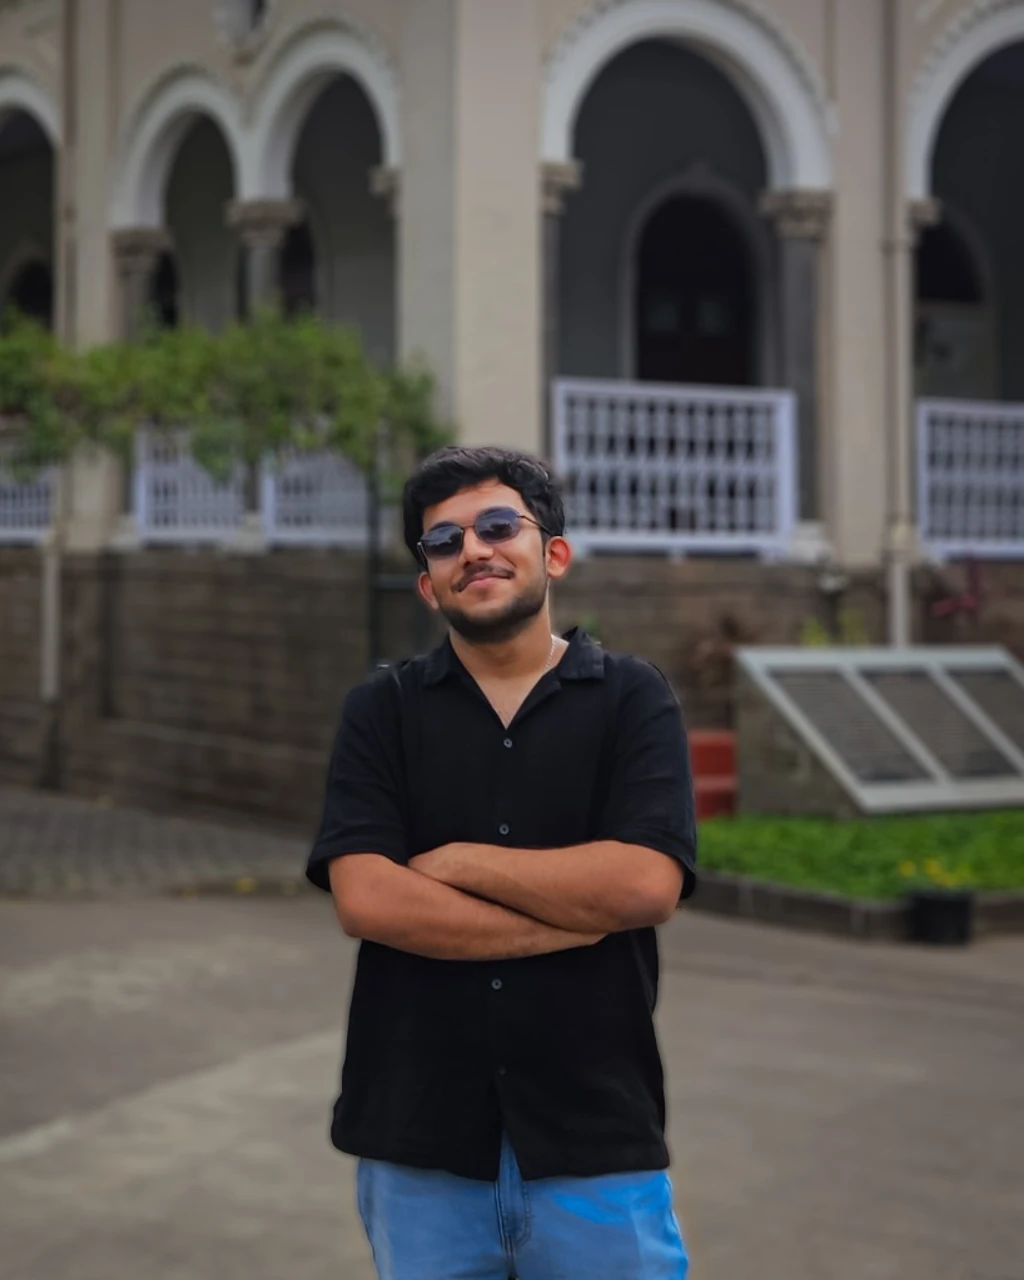
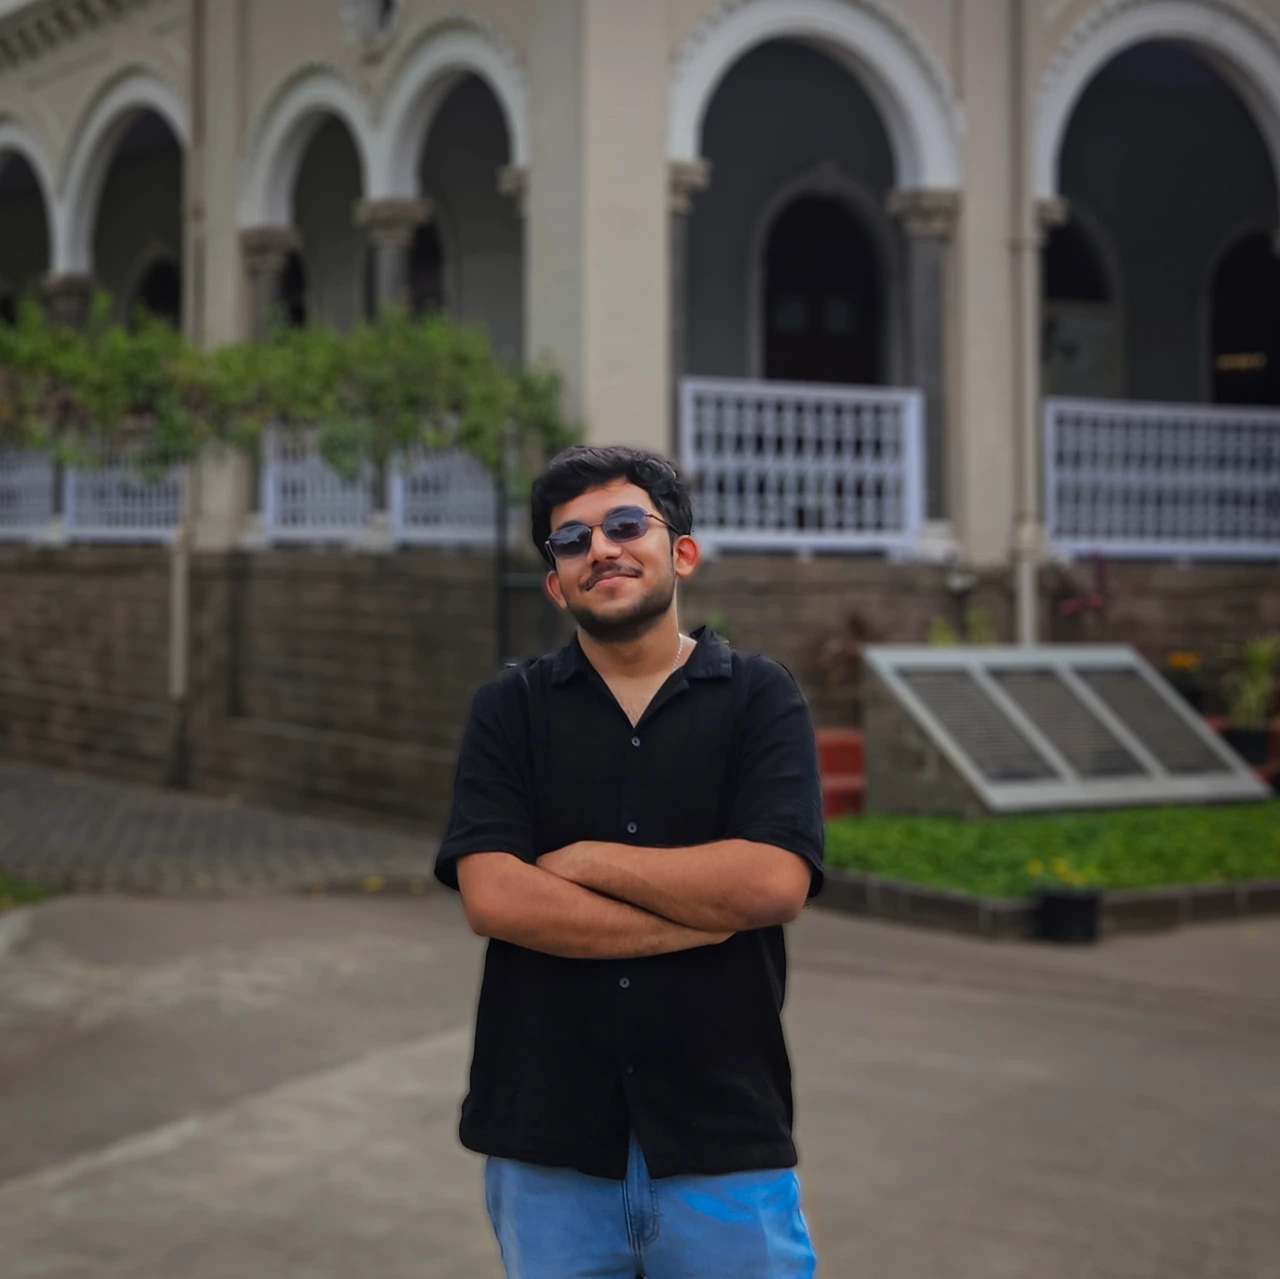
fix(about): remove scroll animation and restore full ProfilePhoto with natural background in About frame

diff --git a/script.js b/script.js
@@ -202,133 +202,6 @@
     });
   }
 
-  /* ==========================================================================
-     6. HERO FLYING PORTRAIT CUTOUT & DOCKING ANIMATION (STEP 4)
-     ========================================================================== */
-  const heroCutoutWrapper = document.getElementById('heroCutoutWrapper');
-  const heroPortrait = document.getElementById('travelingPortrait');
-  const aboutDockImg = document.getElementById('aboutPortraitDockImg');
-  const aboutPortraitCard = document.querySelector('.about-portrait-card');
-
-  if (heroPortrait && aboutDockImg && !prefersReduced.matches) {
-    // Create floating traveling flyer element
-    let flyer = document.getElementById('heroFlyingFlyer');
-    if (!flyer) {
-      flyer = document.createElement('div');
-      flyer.id = 'heroFlyingFlyer';
-      flyer.className = 'hero-flying-flyer';
-      flyer.setAttribute('aria-hidden', 'true');
-      flyer.innerHTML = '<img src="assets/cutout/portrait_cutout_1000.webp" class="flyer-img" alt="">';
-      document.body.appendChild(flyer);
-    }
-
-    let heroDocRect = null;
-    let dockDocRect = null;
-    let isTicking = false;
-
-    function measureRects() {
-      const prevHeroVis = heroPortrait.style.visibility;
-      const prevDockVis = aboutDockImg.style.visibility;
-      heroPortrait.style.visibility = 'visible';
-      aboutDockImg.style.visibility = 'visible';
-
-      const scrollY = window.pageYOffset || document.documentElement.scrollTop;
-      const hr = heroPortrait.getBoundingClientRect();
-      const dr = aboutDockImg.getBoundingClientRect();
-
-      heroDocRect = {
-        top: hr.top + scrollY,
-        left: hr.left,
-        width: hr.width,
-        height: hr.height
-      };
-
-      dockDocRect = {
-        top: dr.top + scrollY,
-        left: dr.left,
-        width: dr.width,
-        height: dr.height
-      };
-
-      heroPortrait.style.visibility = prevHeroVis;
-      aboutDockImg.style.visibility = prevDockVis;
-    }
-
-    function updateFlyer() {
-      isTicking = false;
-      const scrollY = window.pageYOffset || document.documentElement.scrollTop;
-
-      if (!heroDocRect || !dockDocRect || heroDocRect.width === 0) {
-        measureRects();
-        if (!heroDocRect || !dockDocRect || heroDocRect.width === 0) return;
-      }
-
-      // Transition completes when the dock aligns into the middle of the viewport
-      const targetScroll = Math.max(250, dockDocRect.top - (window.innerHeight - dockDocRect.height) * 0.45);
-      const rawProgress = scrollY / targetScroll;
-      const progress = Math.min(1, Math.max(0, rawProgress));
-
-      if (progress <= 0.005) {
-        // At exact top of hero
-        flyer.style.display = 'none';
-        heroPortrait.style.visibility = 'visible';
-        aboutDockImg.style.visibility = 'hidden';
-      } else if (progress >= 0.995) {
-        // Fully docked in About section
-        flyer.style.display = 'none';
-        heroPortrait.style.visibility = 'hidden';
-        aboutDockImg.style.visibility = 'visible';
-      } else {
-        // In flight: smooth traveling interpolation
-        flyer.style.display = 'block';
-        heroPortrait.style.visibility = 'hidden';
-        aboutDockImg.style.visibility = 'hidden';
-
-        // Smooth cubic easing curve
-        const t = progress < 0.5
-          ? 4 * progress * progress * progress
-          : 1 - Math.pow(-2 * progress + 2, 3) / 2;
-
-        const curHeroTopViewport = heroDocRect.top - scrollY;
-        const curDockTopViewport = dockDocRect.top - scrollY;
-
-        const curX = heroDocRect.left + (dockDocRect.left - heroDocRect.left) * t;
-        const curY = curHeroTopViewport + (curDockTopViewport - curHeroTopViewport) * t;
-        const curW = heroDocRect.width + (dockDocRect.width - heroDocRect.width) * t;
-        const curH = heroDocRect.height + (dockDocRect.height - heroDocRect.height) * t;
-
-        flyer.style.transform = 'translate3d(' + Math.round(curX) + 'px, ' + Math.round(curY) + 'px, 0)';
-        flyer.style.width = Math.round(curW) + 'px';
-        flyer.style.height = Math.round(curH) + 'px';
-
-        const shadowBlur = Math.round(50 - 25 * t);
-        flyer.style.filter = 'drop-shadow(0 ' + Math.round(20 - 10 * t) + 'px ' + shadowBlur + 'px rgba(0,0,0,0.92))';
-      }
-    }
-
-    function onScroll() {
-      if (!isTicking) {
-        requestAnimationFrame(updateFlyer);
-        isTicking = true;
-      }
-    }
-
-    window.addEventListener('scroll', onScroll, { passive: true });
-    window.addEventListener('resize', () => {
-      measureRects();
-      updateFlyer();
-    }, { passive: true });
-
-    // Initial setup after fonts and images settle
-    window.addEventListener('load', () => {
-      measureRects();
-      updateFlyer();
-    });
-    setTimeout(() => {
-      measureRects();
-      updateFlyer();
-    }, 200);
-  }
 
   /* ==========================================================================
      5. 35MM ACADEMY COUNTDOWN LEADER (ARCHIVED / DISABLED IN HERO-FLY)

diff --git a/scripts/capture_profile_photo_fix.js b/scripts/capture_profile_photo_fix.js
@@ -1,0 +1,41 @@
+const cp = require('child_process');
+const path = require('path');
+const fs = require('fs');
+
+const chrome = 'C:\\Program Files\\Google\\Chrome\\Application\\chrome.exe';
+const userData = '--user-data-dir=C:\\Users\\tchav\\Documents\\Workspace\\protfolio\\frame\\frame-portfolio\\curation\\chrome_user_data';
+const screenshotsDir = path.resolve('curation/screenshots');
+const artifactDir = 'C:\\Users\\tchav\\.gemini\\antigravity\\brain\\6b458d8f-2018-4a6d-9c57-d77cfe956962';
+
+function capture(fileUrl, outFile, width, height, waitMs = 1200) {
+  console.log(`Capturing ${outFile} (${width}x${height})...`);
+  const localTarget = path.join(screenshotsDir, outFile);
+  cp.spawnSync(chrome, [
+    '--headless=new',
+    '--disable-gpu',
+    '--no-sandbox',
+    '--virtual-time-budget=' + (waitMs + 1000),
+    userData,
+    `--screenshot=${localTarget}`,
+    `--window-size=${width},${height}`,
+    fileUrl
+  ]);
+  if (fs.existsSync(localTarget)) {
+    const artifactTarget = path.join(artifactDir, outFile);
+    fs.copyFileSync(localTarget, artifactTarget);
+    console.log(`Saved: ${outFile} (${fs.statSync(localTarget).size} bytes)`);
+  }
+}
+
+const fileUrl = `file:///${path.resolve('index.html').replace(/\\/g, '/')}`;
+
+// Capture About section at 1440, 768, 375
+capture(`${fileUrl}#about`, 'profile-photo-about-1440.png', 1440, 900);
+capture(`${fileUrl}#about`, 'profile-photo-about-768.png', 768, 900);
+capture(`${fileUrl}#about`, 'profile-photo-about-375.png', 375, 900);
+
+// Capture Hero top at 1440 and 375
+capture(fileUrl, 'profile-photo-hero-1440.png', 1440, 960);
+capture(fileUrl, 'profile-photo-hero-375.png', 375, 812);
+
+console.log('Profile photo verification captures completed.');

diff --git a/styles.css b/styles.css
@@ -1904,7 +1904,7 @@ body:hover .custom-cursor {
   width: 100%;
   aspect-ratio: 4 / 5;
   object-fit: cover;
-  object-position: center center;
+  object-position: center 25%;
   filter: contrast(1.05) brightness(1.0) saturate(1.02);
   display: block;
   transition: transform var(--dur-slow) var(--ease-cinema), filter var(--dur-slow);
@@ -5609,23 +5609,7 @@ main > section {
   transition: transform 0.3s cubic-bezier(0.16, 1, 0.3, 1);
 }
 
-/* Traveling Flying Portrait Flyer Element (Vanilla JS RAF) */
-.hero-flying-flyer {
-  position: fixed;
-  top: 0;
-  left: 0;
-  z-index: 99;
-  pointer-events: none;
-  display: none;
-  will-change: transform, width, height;
-}
 
-.hero-flying-flyer .flyer-img {
-  width: 100%;
-  height: 100%;
-  object-fit: contain;
-  object-position: bottom center;
-}
 
 /* Layer 4: Corner HUD */
 .hero-corner-hud {
@@ -5711,11 +5695,7 @@ main > section {
   font-size: 11.5px;
 }
 
-/* Landing Slot inside About */
-.portrait-cutout-dock-img {
-  background: #0a0a09;
-  object-fit: contain;
-}
+
 
 @media (max-width: 768px) {
   .hero-cutout-wrapper {

diff --git a/scripts/optimize_profile_photo.js b/scripts/optimize_profile_photo.js
@@ -1,0 +1,33 @@
+const fs = require('fs');
+const cp = require('child_process');
+const path = require('path');
+
+const ffmpeg = "C:\\Users\\tchav\\AppData\\Local\\Microsoft\\WinGet\\Packages\\Gyan.FFmpeg_Microsoft.Winget.Source_8wekyb3d8bbwe\\ffmpeg-8.1.1-full_build\\bin\\ffmpeg.exe";
+
+// Generate high quality webp exports from ProfilePhoto.jpeg
+const input = path.resolve('ProfilePhoto.jpeg');
+const out640 = path.resolve('assets/optimized/profile_tanmay_portrait-640.webp');
+const out1280 = path.resolve('assets/optimized/profile_tanmay_portrait-1280.webp');
+
+console.log('Generating optimized WebP from ProfilePhoto.jpeg...');
+
+// 640w crop/scale (maintaining 4:5 or native framing)
+cp.spawnSync(ffmpeg, [
+  '-y',
+  '-i', input,
+  '-vf', 'scale=640:-1',
+  '-quality', '90',
+  out640
+]);
+
+// 1280w
+cp.spawnSync(ffmpeg, [
+  '-y',
+  '-i', input,
+  '-vf', 'scale=1280:-1',
+  '-quality', '92',
+  out1280
+]);
+
+console.log('640 size:', fs.statSync(out640).size);
+console.log('1280 size:', fs.statSync(out1280).size);

diff --git a/index.html b/index.html
@@ -285,15 +285,14 @@
           <div class="portrait-frame">
             <div class="portrait-sprocket top" aria-hidden="true"></div>
             <picture>
-              <source type="image/webp" srcset="assets/cutout/portrait_cutout_600.webp 1x, assets/cutout/portrait_cutout_1000.webp 2x">
-              <img src="assets/cutout/portrait_cutout_600.png"
+              <source type="image/webp" srcset="assets/optimized/profile_tanmay_portrait-640.webp 1x, assets/optimized/profile_tanmay_portrait-1280.webp 2x">
+              <img src="ProfilePhoto.jpeg"
                 alt="Tanmay Chavan — Portrait"
-                id="aboutPortraitDockImg"
                 width="460"
                 height="575"
                 loading="lazy"
                 decoding="async"
-                class="portrait-img portrait-cutout-dock-img">
+                class="portrait-img">
             </picture>
             <div class="portrait-sprocket bottom" aria-hidden="true"></div>
           </div>
